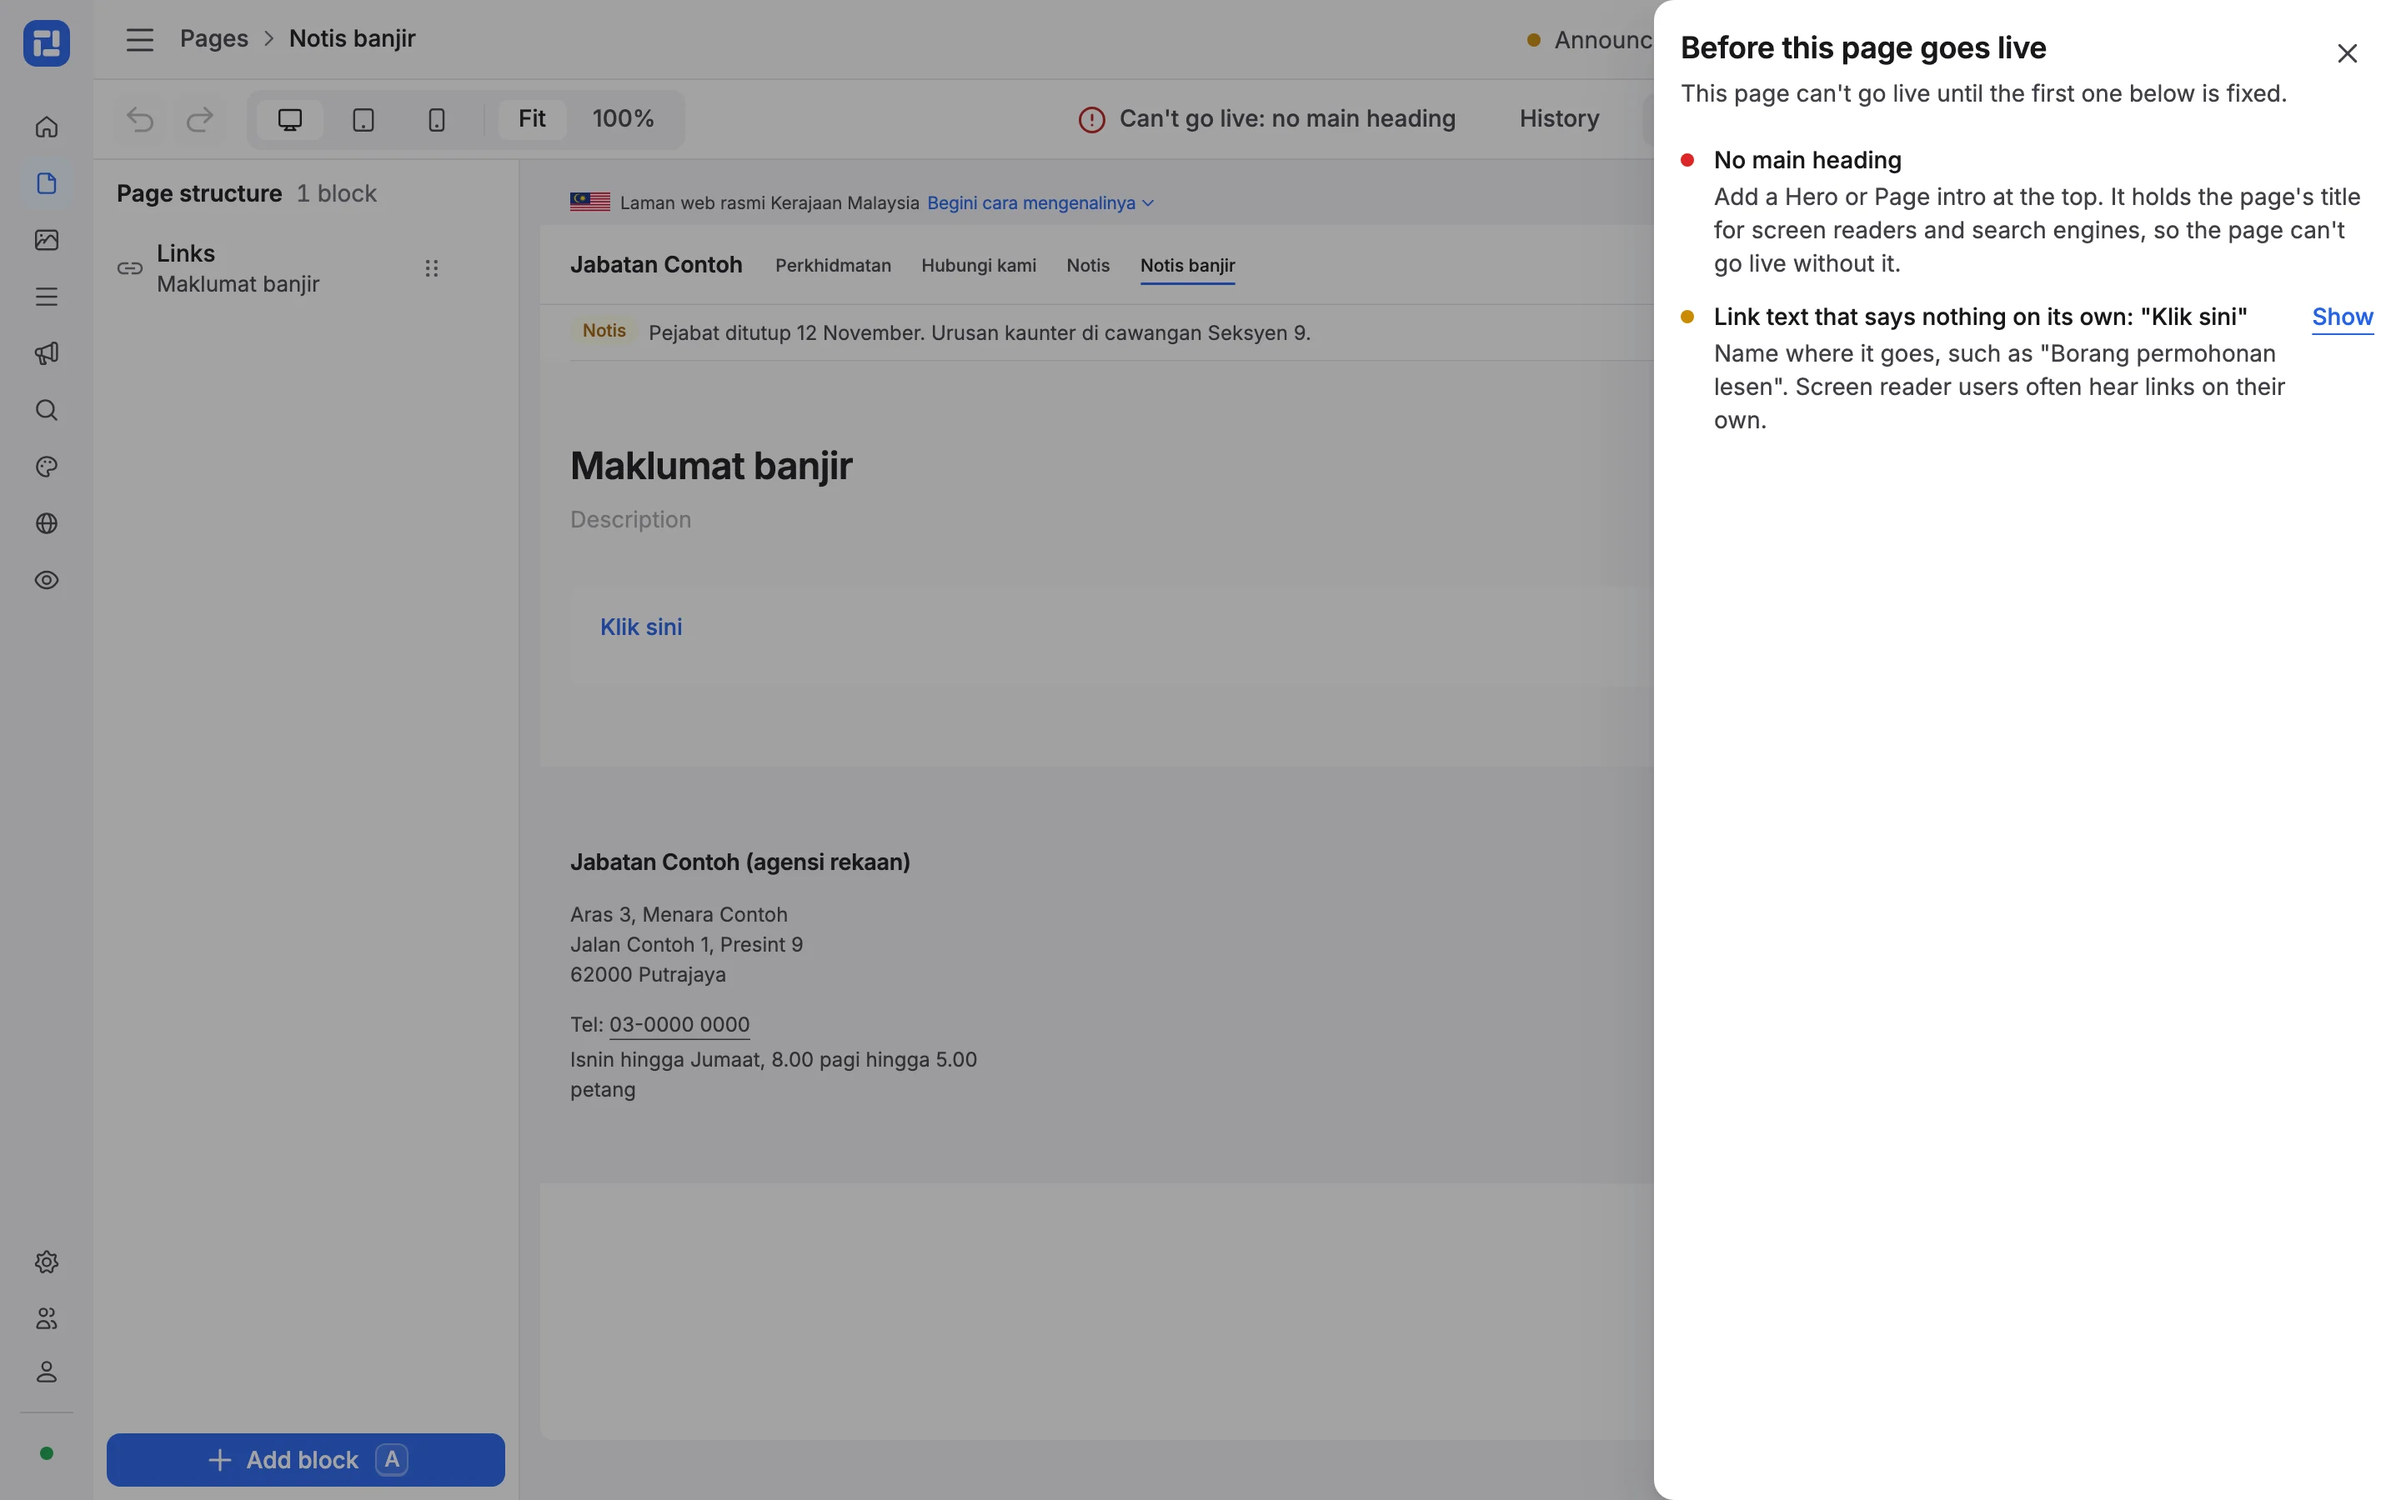
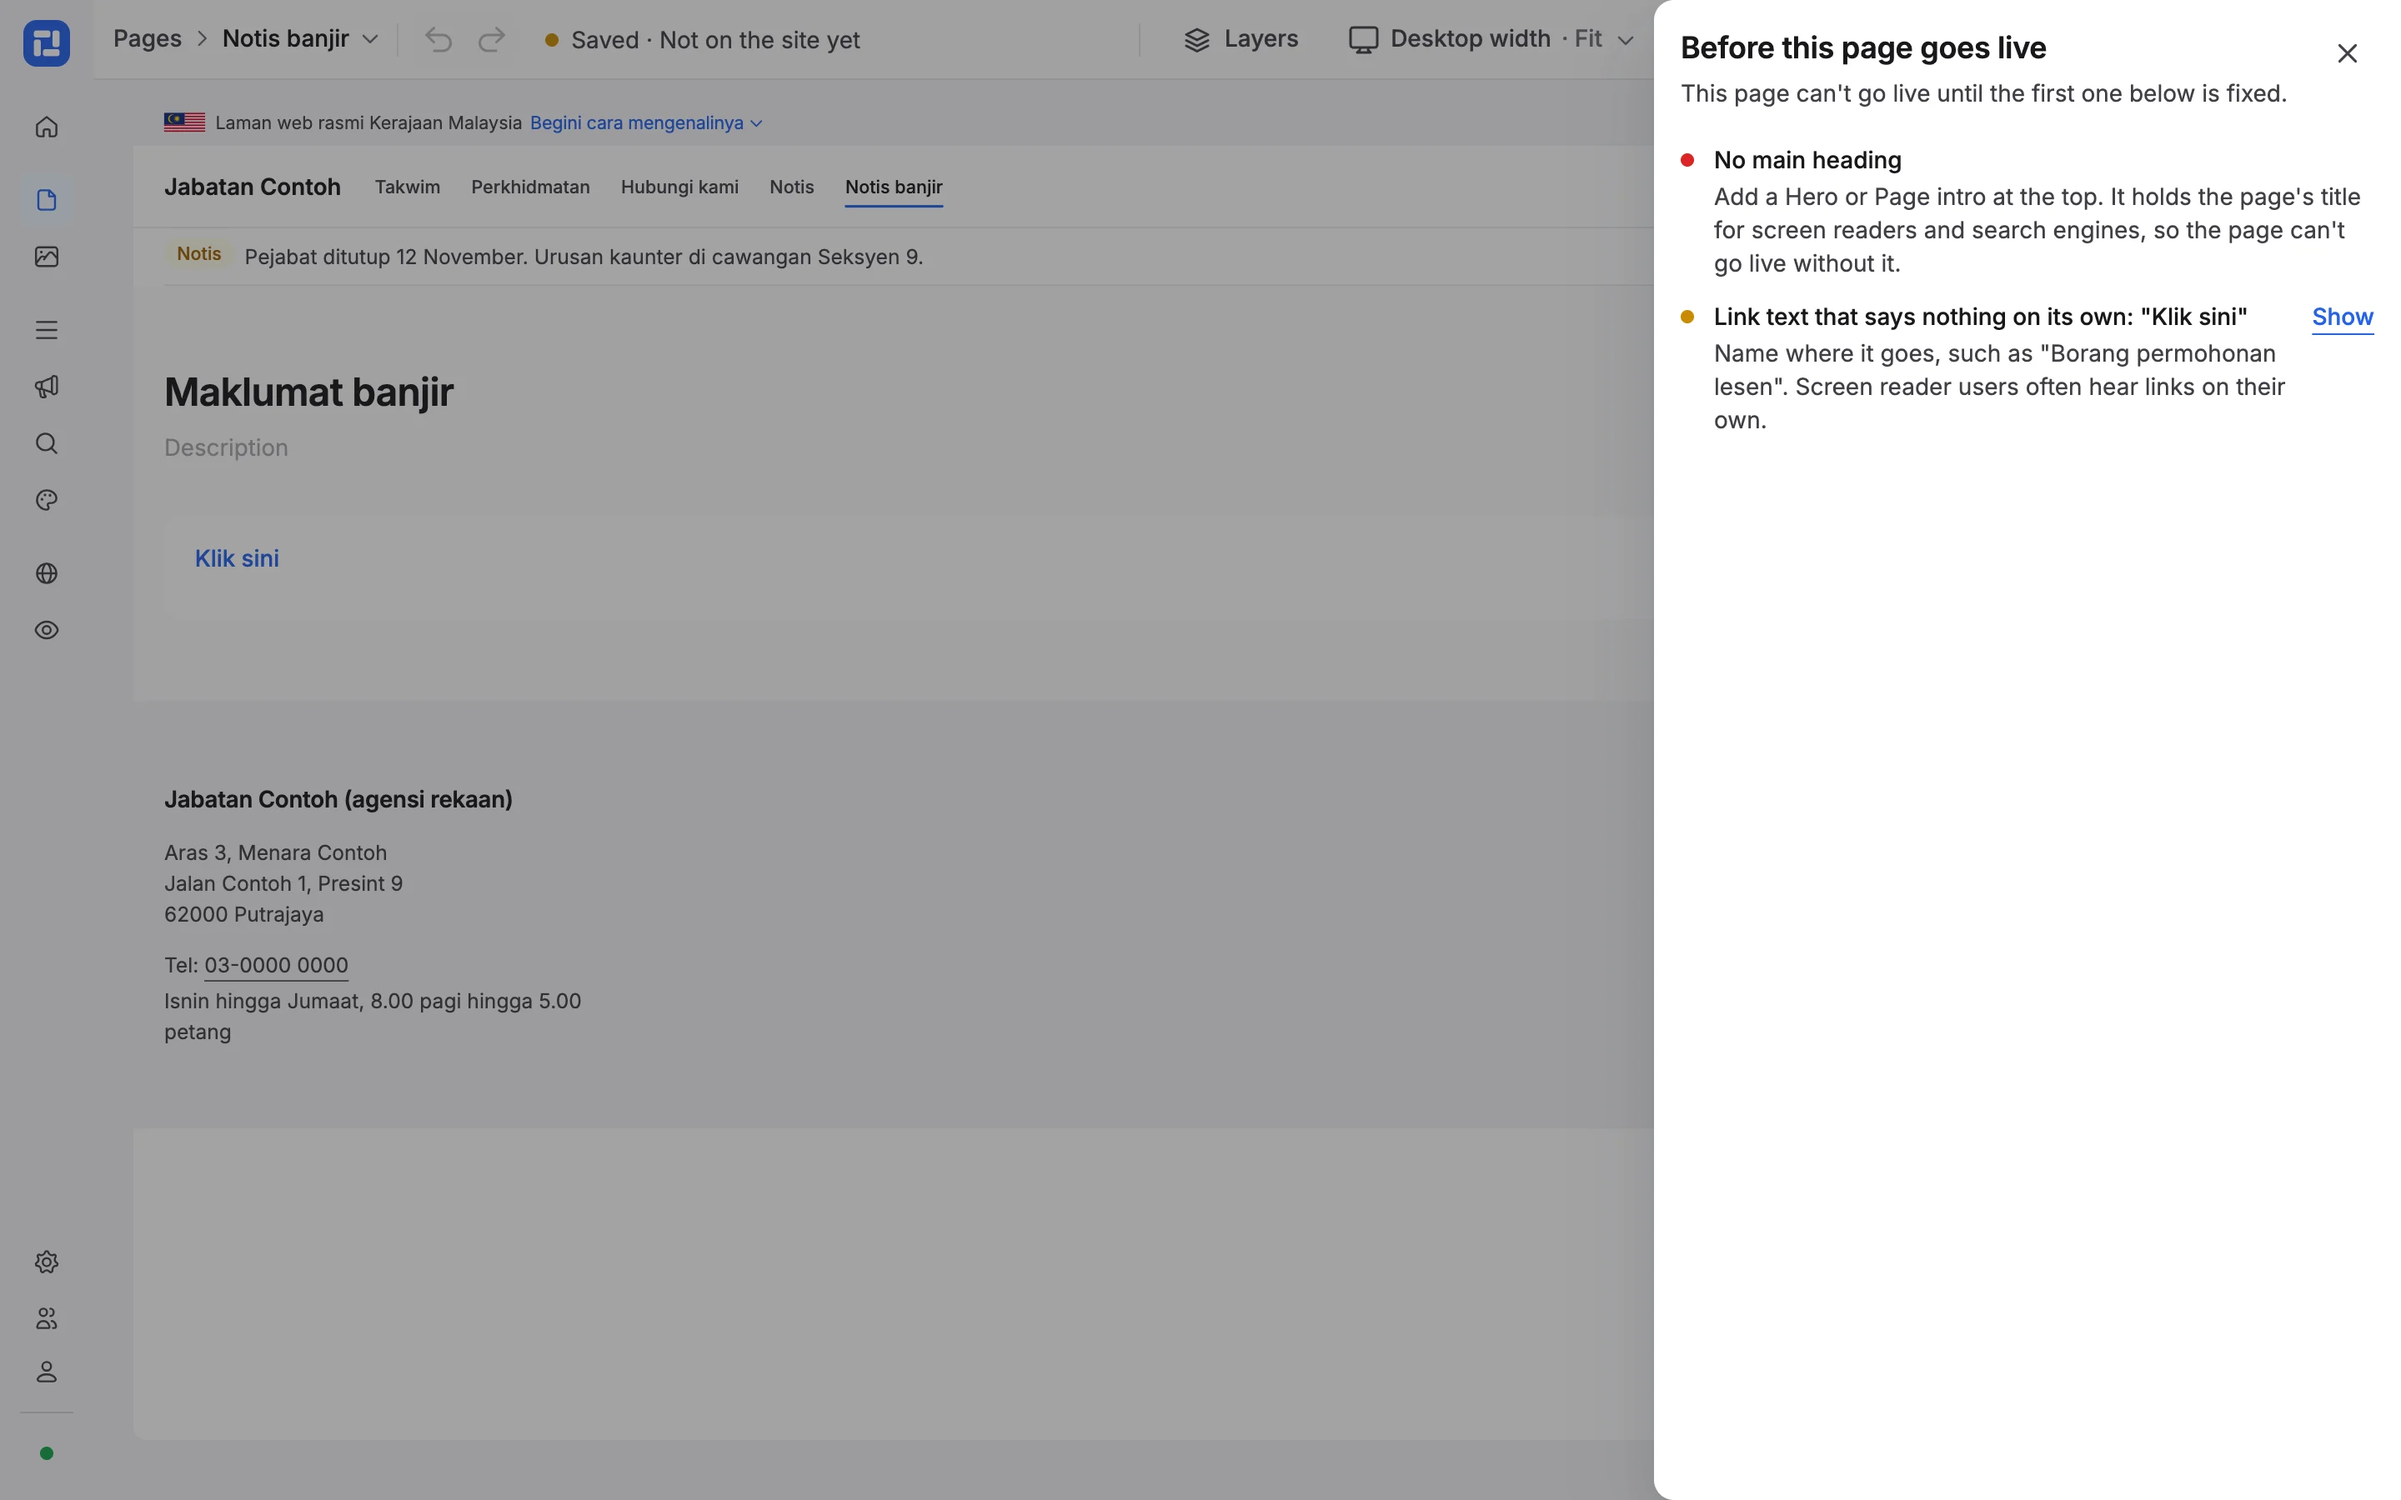
chore(www): demo site with a Takwim and embeds, and fresh screenshots
- The demo agency (apps/server/scripts/demo-site.ts) gains a Takwim: a
  calendar listing with three teams ("Bahagian") and three locations, and
  nine events dated from today, one pinned. Its home page shows them with an
  Upcoming events block, and Power BI, Looker Studio, YouTube and
  OpenStreetMap are switched on under Embeds.
- The marketing site's screenshots are taken again from that demo; the
  publishing shot finds its row by text now the list changed.
- The home page's figures are measured again: 7.2 KB of HTML (was 6.7 KB, with
  Upcoming events on the home page), on 12 November 2026, in BM and English.
- The marketing brief's claims list gains embeds and events, 29 blocks and
  the Takwim template.

diff --git a/apps/server/scripts/demo-site.ts b/apps/server/scripts/demo-site.ts
@@ -10,7 +10,15 @@
  * environment; DEMO_NEW_PASS is the password it must change to at first
  * sign-in (pass the same one again to run the script a second time).
  */
-import { type Block, newBlock, type PageDocument, templateById } from "@fiscal-sb/blocks";
+import {
+  type Block,
+  type ListingSettings,
+  type PageDocument,
+  addDays,
+  dayOf,
+  newBlock,
+  templateById,
+} from "@fiscal-sb/blocks";
 import type { Announcement, Me, PageSummary, SiteSettings } from "@fiscal-sb/contracts";
 
 const base = process.env.DEMO_URL ?? "http://127.0.0.1:3020";
@@ -70,6 +78,8 @@ await site<SiteSettings>("settings", (d) => ({
     siteName: "Jabatan Contoh",
     agencyName: "Jabatan Contoh (agensi rekaan)",
   },
+  // Dashboards and maps from these services may be framed (Settings, Embeds).
+  embeds: { services: ["powerBi", "lookerStudio", "youtube", "openStreetMap"], hosts: [] },
   contact: {
     address: "Aras 3, Menara Contoh\nJalan Contoh 1, Presint 9\n62000 Putrajaya",
     phone: "03-0000 0000",
@@ -85,9 +95,151 @@ const filled: Partial<Record<Block["type"], Record<string, string>>> = {
   hero: { footnote: "Perkhidmatan dalam talian dibuka 24 jam sehari." },
   serviceHighlights: { description: "Urusan yang paling kerap dibuat oleh orang ramai." },
 };
+// The Takwim: a calendar of the agency's events, by team and location, dated from today.
+const takwim = await create("Takwim", "takwim", "takwim");
+const { settings: takwimSettings } = await call<{ settings: ListingSettings }>(
+  "GET",
+  `/api/pages/${takwim}/listing`,
+);
+await call("PUT", `/api/pages/${takwim}/listing`, {
+  settings: {
+    ...takwimSettings,
+    categories: [
+      { slug: "khidmat-pelanggan", name: "Khidmat Pelanggan" },
+      { slug: "teknologi", name: "Teknologi Maklumat" },
+      { slug: "pengurusan", name: "Pengurusan" },
+    ],
+    locations: [
+      { slug: "ibu-pejabat", name: "Ibu pejabat" },
+      { slug: "cawangan", name: "Cawangan Seksyen 9" },
+      { slug: "dalam-talian", name: "Dalam talian" },
+    ],
+  },
+});
+await change(takwim, (d) => ({
+  ...d,
+  ms: {
+    ...d.ms,
+    blocks: d.ms.blocks.map((b) =>
+      b.type === "eventCalendar"
+        ? ({ ...b, props: { ...b.props, categoryLabel: "Bahagian" } } as Block)
+        : b,
+    ),
+  },
+}));
+await publish(takwim);
+const today = dayOf(Date.now());
+const at = (days: number, time: string) => `${addDays(today, days)}T${time}:00+08:00`;
+const events: {
+  title: string;
+  category: string;
+  start: string;
+  end?: string;
+  allDay?: boolean;
+  location: string;
+  venue: string;
+  pinned?: boolean;
+}[] = [
+  {
+    title: "Mesyuarat pengurusan bulanan",
+    category: "pengurusan",
+    start: at(-6, "09:00"),
+    end: at(-6, "11:00"),
+    location: "ibu-pejabat",
+    venue: "Bilik Mesyuarat Utama, Aras 3",
+  },
+  {
+    title: "Taklimat sistem temu janji baharu",
+    category: "teknologi",
+    start: at(-2, "14:30"),
+    end: at(-2, "16:00"),
+    location: "dalam-talian",
+    venue: "Microsoft Teams",
+  },
+  {
+    title: "Hari Bertemu Pelanggan",
+    category: "khidmat-pelanggan",
+    start: at(1, "00:00"),
+    end: at(2, "00:00"),
+    allDay: true,
+    location: "cawangan",
+    venue: "Dewan Serbaguna, Seksyen 9",
+    pinned: true,
+  },
+  {
+    title: "Latihan kaunter untuk staf baharu",
+    category: "khidmat-pelanggan",
+    start: at(1, "09:00"),
+    end: at(1, "12:30"),
+    location: "ibu-pejabat",
+    venue: "Bilik Latihan, Aras 2",
+  },
+  {
+    title: "Klinik papan pemuka untuk pemilik laporan",
+    category: "teknologi",
+    start: at(3, "14:30"),
+    end: at(3, "16:00"),
+    location: "dalam-talian",
+    venue: "Microsoft Teams",
+  },
+  {
+    title: "Mesyuarat jawatankuasa keselamatan",
+    category: "pengurusan",
+    start: at(6, "10:00"),
+    end: at(6, "12:00"),
+    location: "ibu-pejabat",
+    venue: "Bilik Lembaga, Aras 5",
+  },
+  {
+    title: "Sesi libat urus penduduk",
+    category: "khidmat-pelanggan",
+    start: at(9, "20:00"),
+    end: at(9, "22:00"),
+    location: "cawangan",
+    venue: "Balai Raya Seksyen 9",
+  },
+  {
+    title: "Penyelenggaraan sistem dalam talian",
+    category: "teknologi",
+    start: at(13, "00:00"),
+    allDay: true,
+    location: "dalam-talian",
+    venue: "Semua perkhidmatan dalam talian",
+  },
+  {
+    title: "Majlis penghargaan warga jabatan",
+    category: "pengurusan",
+    start: at(16, "19:30"),
+    end: at(16, "22:30"),
+    location: "ibu-pejabat",
+    venue: "Dewan Utama",
+  },
+];
+const { items: takwimEntries } = await call<{ items: { id: string; title: string }[] }>(
+  "GET",
+  `/api/pages/${takwim}/entries?pageSize=100`,
+);
+for (const { title, category, pinned, ...event } of events) {
+  const id =
+    takwimEntries.find((e) => e.title === title)?.id ??
+    (await call<{ id: string }>("POST", `/api/pages/${takwim}/entries`, { title })).id;
+  await change(id, (d) => ({
+    ...d,
+    entry: { ...d.entry!, category, ...(pinned && { pinned }), event },
+  }));
+  await publish(id);
+}
+await publish(takwim);
+
 const homeBlocks = templateById("utama")
   .blocks("Perkhidmatan Jabatan Contoh, di satu tempat")
   .map((b) => ({ ...b, props: { ...b.props, ...filled[b.type] } }) as Block);
+// The next events from the Takwim, before the last block.
+const upcoming = {
+  ...newBlock("upcomingEvents"),
+  props: { ...newBlock("upcomingEvents").props, listing: takwim },
+} as Block;
+homeBlocks.splice(homeBlocks.length - 1, 0, upcoming);
 await change(home, (d) => ({ ...d, ms: { ...d.ms, blocks: homeBlocks } }));
 await publish(home);
 await publish(await create("Perkhidmatan", "perkhidmatan", "perkhidmatan"));

diff --git a/docs/briefs/marketing-site.md b/docs/briefs/marketing-site.md
@@ -2,7 +2,7 @@
 
 Status: phases 1 to 3 done, 4 Nov 2026, with Ejen AI and Hubungi from phase 4. Built in `apps/www`: the home page in the "data-centre boundary" structure the owner chose (direction contract in `apps/www/.impeccable/surfaces/`), and Kedaulatan, Banding, Pasang, Ejen AI and Hubungi as long-form pages, in BM and English. Still to write: Ciri, Keselamatan, Kebolehcapaian and Soalan lazim.
 
-Screenshots are real: `apps/server/scripts/demo-site.ts` seeds a made-up agency (Jabatan Contoh) into a throwaway builder, and `apps/www/scripts/screenshots.mjs` captures the admin in BM and English and the published site into `apps/www/public/shots/`. Re-run both when the admin changes. The figures on the home page (6.7 KB of HTML, 12 KB of CSS) were measured on that demo on 4 Nov 2026.
+Screenshots are real: `apps/server/scripts/demo-site.ts` seeds a made-up agency (Jabatan Contoh) into a throwaway builder, and `apps/www/scripts/screenshots.mjs` captures the admin in BM and English and the published site into `apps/www/public/shots/`. Re-run both when the admin changes. The figures on the home page (7.2 KB of HTML, 12 KB of CSS) were measured on that demo on 12 Nov 2026, with Upcoming events on its home page.
 
 A static site that makes a Malaysian government agency want to try Laman instead of starting (or staying) on WordPress, Joomla or Drupal. Hosted on GitHub Pages, built from this monorepo.
 
@@ -76,7 +76,9 @@ Every claim on the site comes from this table. Anything not in it needs a source
 
 **Can say (built, in the code or docs):**
 
-- 26 FTDS blocks; page kinds (page, listing, entry) that limit which blocks fit; templates with real BM starting content (Utama, Perkhidmatan, Hubungi, Berita, Pengumuman, Tender dan sebut harga, Acara).
+- 29 FTDS blocks; page kinds (page, listing, entry) that limit which blocks fit; templates with real BM starting content (Utama, Perkhidmatan, Hubungi, Berita, Pengumuman, Tender dan sebut harga, Acara, Takwim).
+- Embeds: a page frames a dashboard, map, video or form from Power BI, Looker Studio, Tableau Public, YouTube, Vimeo, Google Maps, OpenStreetMap, Microsoft Forms or Google Forms, or the agency's own hosts. Off until an Admin switches each service on; only the services' embed addresses, never the rest of their sites. The framed service handles its own sign-in.
+- Events: entries with a date, time, location and venue. An event calendar by month (a wall planner or a planner), filtered by category and location, with a published page per month and filter and no script needed; an upcoming events block with days left; a daily republish so "today" stays right. Event details on an event entry shows the entry's own date and time.
 - Live canvas editing with inline text, a property panel, undo and redo, and a preview identical to the published page.
 - Checks before publishing: a page with no h1 can't go live; warnings for missing or meaningless alt text ("IMG_2041.png", "gambar"), "klik sini" links, broken links, and template text left in.
 - Static output: incremental publishing, atomic swap (a failed build leaves the live site untouched), brotli and gzip at publish (home page about 32 KB to 7 KB), a 404 page, sitemap, RSS.
